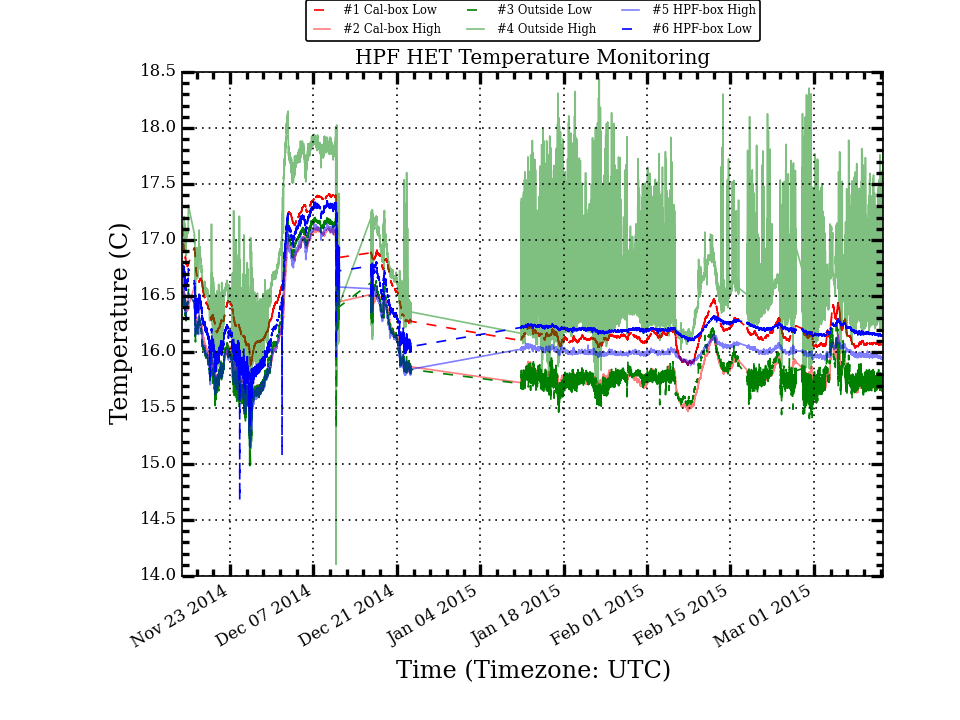
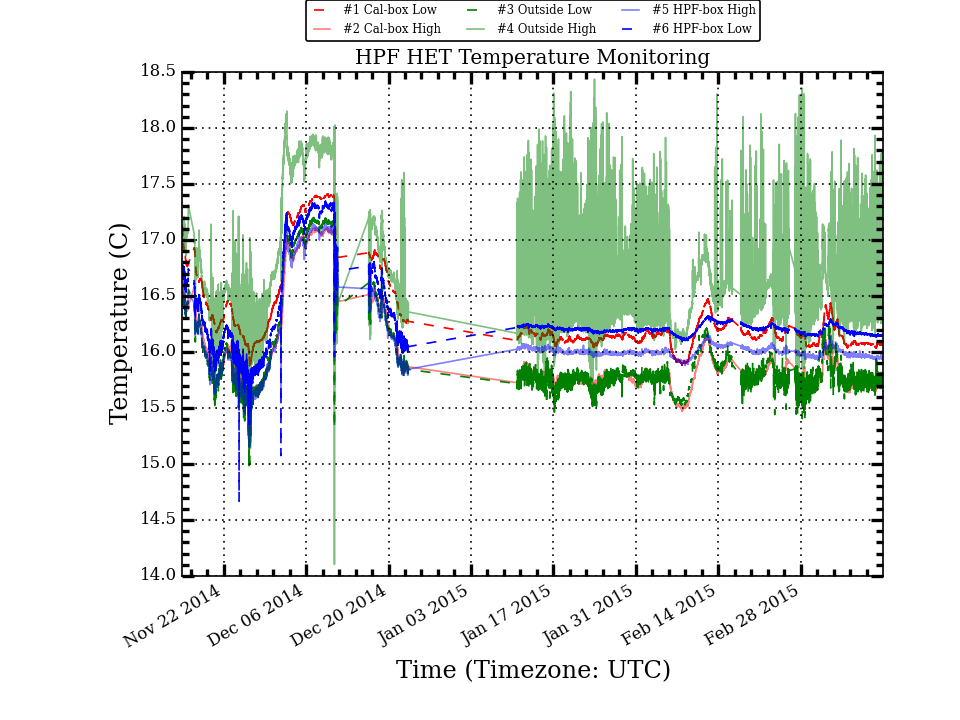
Update HPF Temp Plots

diff --git a/research/hpf_temps/plots/LakeShoreLogTotal_stats.html b/research/hpf_temps/plots/LakeShoreLogTotal_stats.html
@@ -10,53 +10,53 @@
  </TR>
  <TR>
   <TD>Cal_Low</TD>
-  <TD>16.331</TD>
-  <TD>0.375</TD>
-  <TD>16.171</TD>
+  <TD>16.328</TD>
+  <TD>0.374</TD>
+  <TD>16.168</TD>
   <TD>17.410</TD>
   <TD>15.840</TD>
   <TD>1.570</TD>
  </TR>
  <TR>
   <TD>Cal_High</TD>
-  <TD>15.967</TD>
-  <TD>0.394</TD>
-  <TD>15.810</TD>
+  <TD>15.963</TD>
+  <TD>0.392</TD>
+  <TD>15.807</TD>
   <TD>17.114</TD>
   <TD>15.410</TD>
   <TD>1.704</TD>
  </TR>
  <TR>
   <TD>Out_Low</TD>
-  <TD>15.963</TD>
-  <TD>0.422</TD>
-  <TD>15.794</TD>
+  <TD>15.960</TD>
+  <TD>0.420</TD>
+  <TD>15.792</TD>
   <TD>17.201</TD>
   <TD>14.942</TD>
   <TD>2.259</TD>
  </TR>
  <TR>
   <TD>Out_High</TD>
-  <TD>16.674</TD>
-  <TD>0.475</TD>
-  <TD>16.549</TD>
+  <TD>16.672</TD>
+  <TD>0.473</TD>
+  <TD>16.547</TD>
   <TD>18.436</TD>
   <TD>14.104</TD>
   <TD>4.332</TD>
  </TR>
  <TR>
   <TD>HPF_High</TD>
-  <TD>16.102</TD>
-  <TD>0.337</TD>
-  <TD>16.004</TD>
+  <TD>16.100</TD>
+  <TD>0.335</TD>
+  <TD>16.003</TD>
   <TD>17.147</TD>
   <TD>15.149</TD>
   <TD>1.998</TD>
  </TR>
  <TR>
   <TD>HPF_Low</TD>
-  <TD>16.303</TD>
-  <TD>0.335</TD>
+  <TD>16.301</TD>
+  <TD>0.333</TD>
   <TD>16.206</TD>
   <TD>17.356</TD>
   <TD>14.668</TD>
